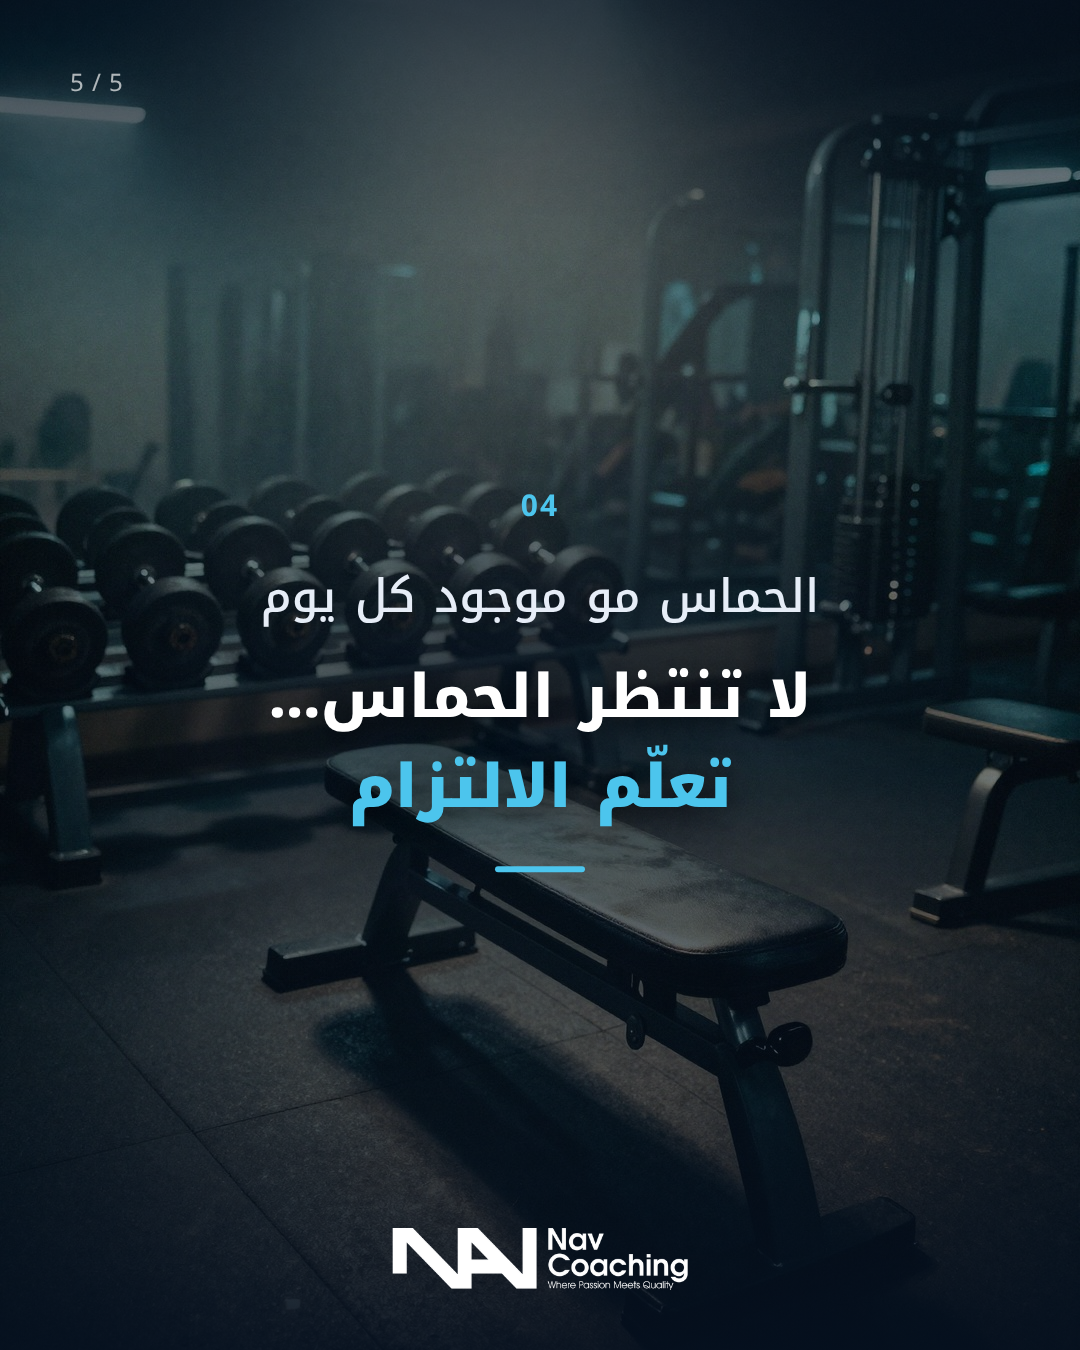
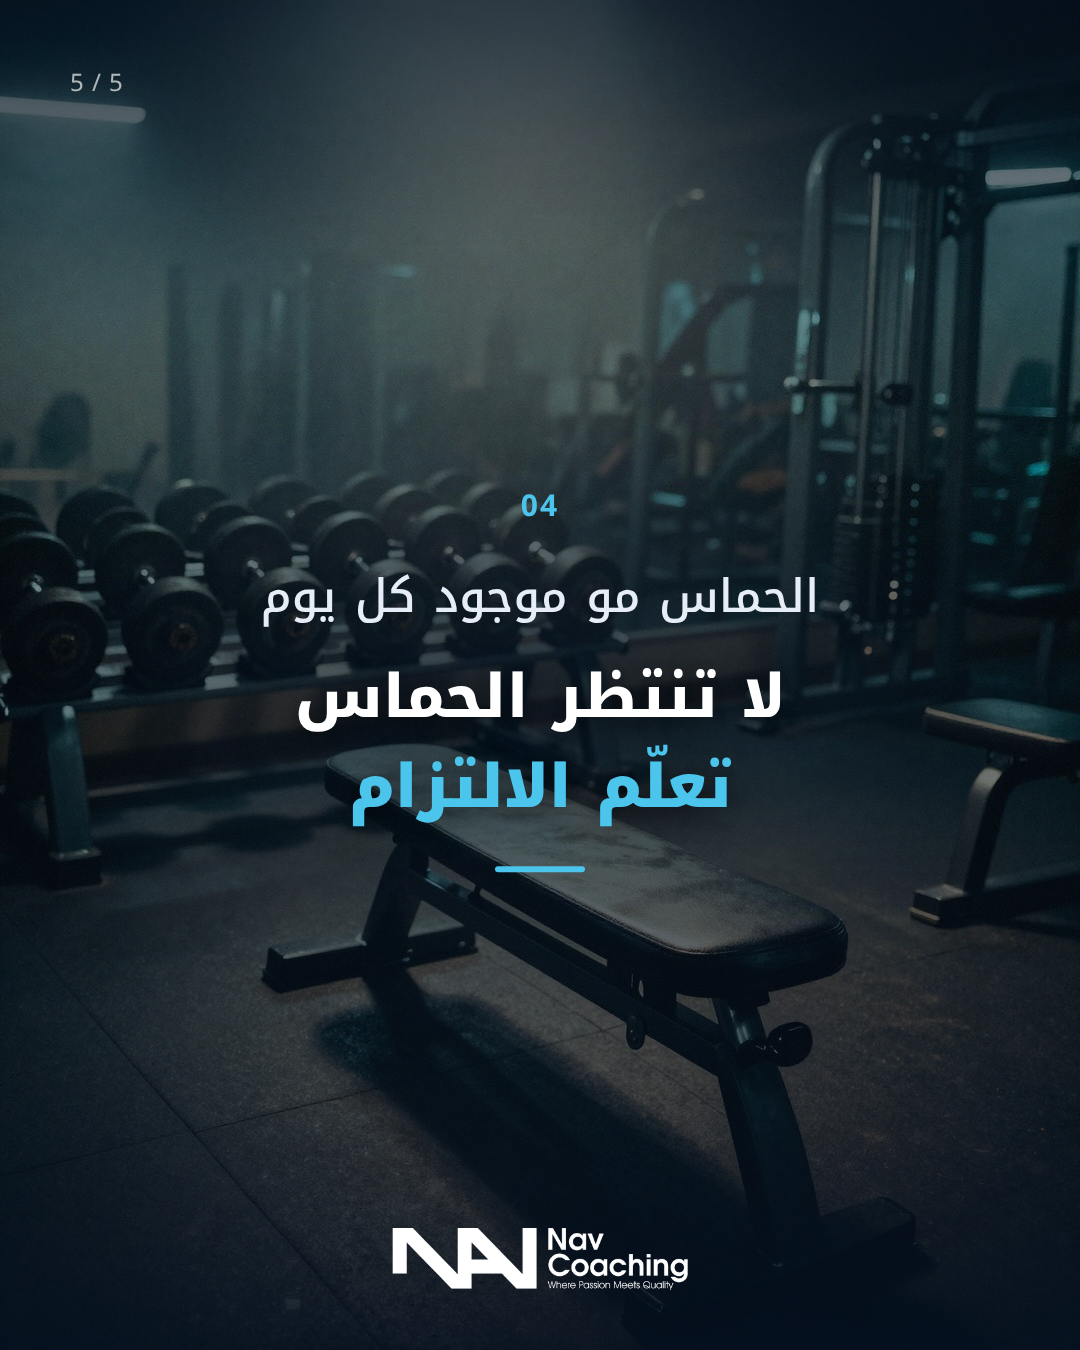
gymrules: drop ellipsis on slide 5
Claude-Session: https://claude.ai/code/session_014K8VAaJoHdbEmLTmDkRNee

Changed region(s): [[0.275, 0.4978, 0.7639, 0.56]]

diff --git a/instagram/gymrules/slides.html b/instagram/gymrules/slides.html
@@ -18,6 +18,6 @@ const S=[
 ['01','لا تقارن بدايتك بنهاية غيرك','ركّز على <b>تقدّمك أنت</b>'],
 ['02','لا تغيّر برنامجك كل أسبوع','التزم بخطة وحدة <b>صح</b><br>قبل ما تحكم على النتيجة'],
 ['03','الاستشفاء جزء من التطور','النوم والأكل والراحة<br>مهمة <b>قد التمرين</b>'],
-['04','الحماس مو موجود كل يوم','لا تنتظر الحماس…<br><b>تعلّم الالتزام</b>']];
+['04','الحماس مو موجود كل يوم','لا تنتظر الحماس<br><b>تعلّم الالتزام</b>']];
 root.innerHTML=S.map((s,i)=>`<section class="s" style="background-image:url(bg/${i+1}.jpg)"><div class="n">${i+1} / 5</div><div class="c">${s[0]=='hook'?`<div class="hook">${s[1]}</div><div class="bar"></div>`:`<div class="no">${s[0]}</div><div class="l1">${s[1]}</div><div class="l2">${s[2]}</div><div class="bar"></div>`}</div><img class="logo" src="../../brand/logo-white.webp"></section>`).join('');
 </script></body></html>
